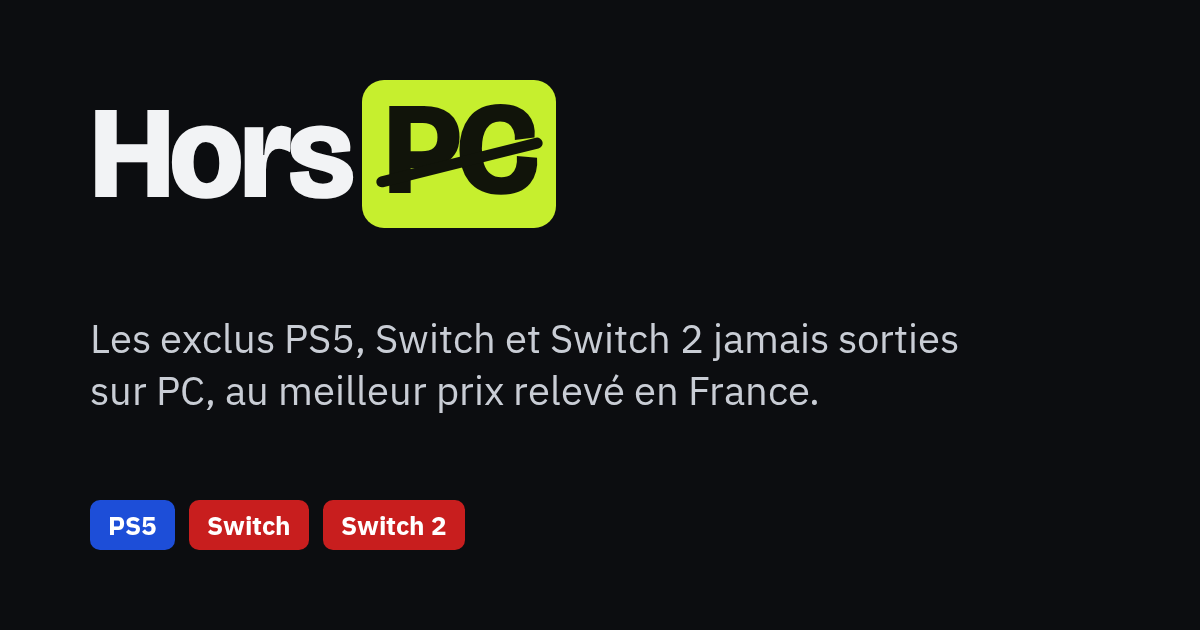
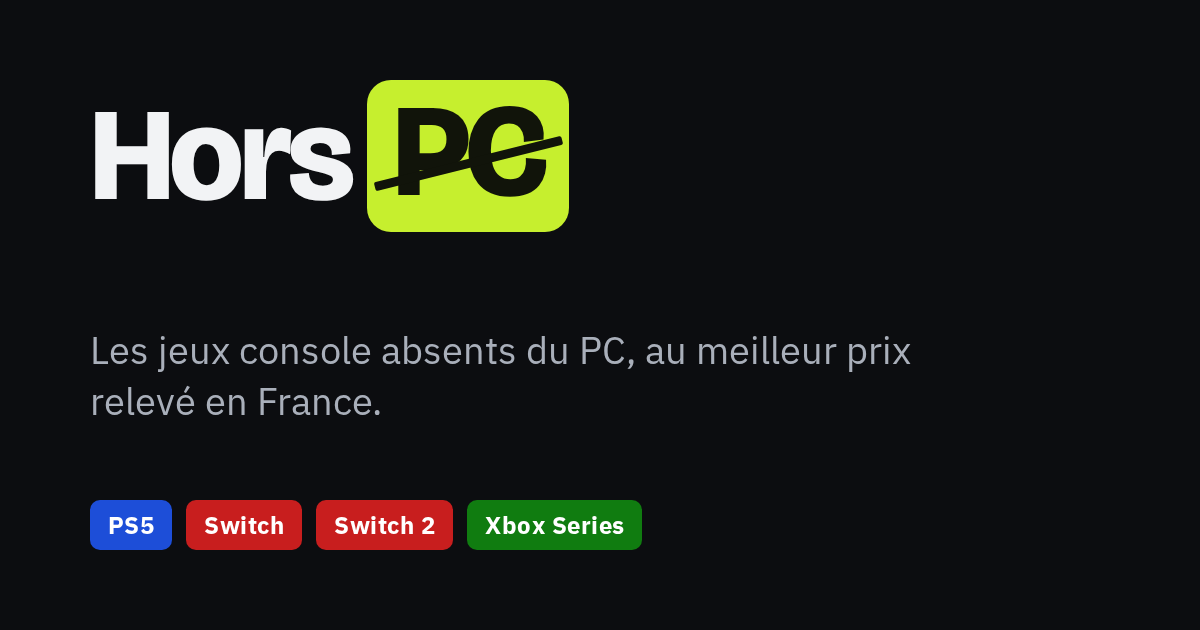
fix(site): og-image à jour et test des fichiers référencés
- og-image.png n'avait pas disparu : suivie depuis 1020a74, jamais
  supprimée (aucune suppression dans l'historique ; covers.py et render.py
  ne touchent que covers/, screens/ et jeux/). Le signalement venait d'un
  `ls site/*.png site/*.jpg` interrompu par zsh faute de .jpg
- l'image était en revanche périmée (« exclus PS5, Switch et Switch 2 ») :
  régénérée en 1200 x 630 avec les polices et tokens du site, accroche
  « jeux console absents du PC » et badge Xbox Series
  (scripts/og_image.py, reproductible)
- test : tout fichier local référencé par une page de site/ (src, href,
  og:image, twitter:image, favicon, scripts, polices de style.css) existe

diff --git a/scripts/og_image.py b/scripts/og_image.py
@@ -1,0 +1,59 @@
+"""Génère site/og-image.png (1200 x 630) avec les polices et les tokens de site/style.css.
+
+Usage : uv run python scripts/og_image.py
+L'image reprend le logo, l'accroche et les badges console du site (thème sombre).
+"""
+
+import sys
+from pathlib import Path
+
+from playwright.sync_api import sync_playwright
+
+SITE = Path(__file__).resolve().parents[1] / "site"
+OUTPUT = SITE / "og-image.png"
+TAGLINE = "Les jeux console absents du PC, au meilleur prix relevé en France."
+CONSOLES = (("PS5", "ps"), ("Switch", "nin"), ("Switch 2", "nin"), ("Xbox Series", "xb"))
+
+PAGE = """<!doctype html>
+<html lang="fr" class="hp dark">
+<head><meta charset="utf-8"><link rel="stylesheet" href="style.css">
+<style>
+  html, body {{ margin: 0; width: 1200px; height: 630px; overflow: hidden; }}
+  .og {{ box-sizing: border-box; width: 1200px; height: 630px; padding: 80px 90px;
+        background: var(--bg); color: var(--ink); display: flex; flex-direction: column; }}
+  .og .logo {{ font-size: 132px; gap: 8px; }}
+  .og .logo-pc {{ padding: 6px 26px 14px; border-radius: 24px; margin-left: 8px; }}
+  .og .logo-pc::after {{ height: 9px; }}
+  .og p {{ margin: 92px 0 0; max-width: 900px; font-size: 38px; line-height: 1.35;
+          color: var(--muted); }}
+  .og .consoles {{ margin-top: auto; display: flex; gap: 14px; }}
+  .og .console {{ height: 50px; padding: 0 18px; border-radius: 10px; font-size: 24px; }}
+</style></head>
+<body class="hp dark"><div class="og">
+  <div class="logo">Hors<span class="logo-pc">PC</span></div>
+  <p>{tagline}</p>
+  <div class="consoles">{consoles}</div>
+</div></body></html>
+"""
+
+
+def main() -> int:
+    consoles = "".join(f'<span class="console {cls}">{name}</span>' for name, cls in CONSOLES)
+    page_path = SITE / "_og-image.html"  # à côté de style.css pour les chemins des polices
+    page_path.write_text(PAGE.format(tagline=TAGLINE, consoles=consoles), encoding="utf-8")
+    try:
+        with sync_playwright() as p:
+            browser = p.chromium.launch()
+            page = browser.new_page(viewport={"width": 1200, "height": 630})
+            page.goto(page_path.as_uri())
+            page.evaluate("document.fonts.ready")
+            page.screenshot(path=str(OUTPUT))
+            browser.close()
+    finally:
+        page_path.unlink(missing_ok=True)
+    print(f"{OUTPUT} écrit")
+    return 0
+
+
+if __name__ == "__main__":
+    sys.exit(main())

diff --git a/tests/test_site.py b/tests/test_site.py
@@ -167,3 +167,49 @@ def test_pages_de_jeux_sans_iframe_ni_ressource_youtube() -> None:
         external = [u for u in parse(page).loaded if is_external(u)]
         assert external == [], page.parent.name
         assert '<script src="../../game.js" defer></script>' in text
+
+
+# --- Fichiers locaux référencés ---------------------------------------------------------------
+
+SITE_URL = "https://mvth1s.github.io/hors-pc/"
+
+
+def local_references(page: Path) -> set[str]:
+    """Cibles locales d'une page : src, href, og:image et twitter:image (URL du site ramenée à
+    un chemin local), sans les liens externes, ancres, mailto ni paramètres."""
+    text = page.read_text(encoding="utf-8")
+    refs = re.findall(r'\b(?:src|href)="([^"]+)"', text)
+    refs += re.findall(r'<meta (?:property|name)="(?:og|twitter):image" content="([^"]+)"', text)
+    found = set()
+    for ref in map(html.unescape, refs):
+        if ref.startswith(SITE_URL):
+            target = SITE / ref.removeprefix(SITE_URL)
+        elif re.match(r"^(?:[a-z]+:|//|#)", ref):
+            continue  # externe, mailto, ancre
+        else:
+            target = page.parent / ref
+        path = target.as_posix().split("#")[0].split("?")[0]
+        if path.endswith("/") or Path(path).is_dir():
+            path = path.rstrip("/") + "/index.html"
+        found.add(path)
+    return found
+
+
+ALL_PAGES = sorted(SITE.glob("*.html")) + sorted(SITE.glob("jeux/*/index.html"))
+
+
+@pytest.mark.parametrize("page", ALL_PAGES, ids=lambda p: str(p.relative_to(SITE)))
+def test_fichiers_references_presents(page: Path) -> None:
+    missing = [ref for ref in sorted(local_references(page)) if not Path(ref).is_file()]
+    assert missing == [], missing
+
+
+def test_og_image_et_polices_presentes() -> None:
+    from horspc.render import OG_IMAGE
+
+    assert (SITE / OG_IMAGE).is_file()
+    index = (SITE / "index.html").read_text(encoding="utf-8")
+    assert f'<meta property="og:image" content="{SITE_URL}{OG_IMAGE}">' in index
+    css = (SITE / "style.css").read_text(encoding="utf-8")
+    fonts = re.findall(r"url\(([^)]+)\)", css)
+    assert fonts and all((SITE / f.strip("'\"")).is_file() for f in fonts)

diff --git a/README.md b/README.md
@@ -349,7 +349,7 @@ Le build (complet ou `--offline`) écrit le catalogue en HTML : le site est **en
 - Une page par jeu : `site/jeux/<slug>/index.html` (titre, plateformes, date, statut PC, offre retenue et date de relevé, jaquette, lien vers le catalogue), construite sur le gabarit des pages légales. Les pages des jeux retirés sont supprimées.
 - Page de jeu enrichie au build complet depuis IGDB : studio(s) et éditeur(s) (`involved_companies`), résumé (`summary`, affiché en anglais avec la mention « Résumé IGDB (en anglais) », ou `description_fr` de `games.yaml` s'il est renseigné), jusqu'à 4 captures officielles (`t_screenshot_big`, WebP dans `site/screens/<slug>/<image_id>.webp`, retéléchargées seulement si l'`image_id` change, réutilisées hors ligne) et la bande-annonce (première vidéo IGDB dont le nom contient « trailer »). La bande-annonce est une façade (image + bouton, `game.js`) : l'iframe `youtube-nocookie.com` n'est créée qu'au clic, aucune requête vers YouTube avant (test Playwright). `data.json` passe en `schema_version` 4 (`developers`, `publishers`, `summary`, `summary_source`, `screenshots`, `trailer_youtube_id`).
 - Cartes du catalogue entièrement cliquables (lien du titre étendu à toute la carte, « Voir l'offre » reste au-dessus), légère élévation au survol et au focus, désactivée avec `prefers-reduced-motion`.
-- Sur chaque page : `<link rel="canonical">` absolu, meta description, Open Graph et Twitter card (jaquette, ou `site/og-image.png` en 1200 × 630), `lang="fr"`, un seul `h1`.
+- Sur chaque page : `<link rel="canonical">` absolu, meta description, Open Graph et Twitter card (jaquette, ou `site/og-image.png` en 1200 × 630, générée par `uv run python scripts/og_image.py` avec les polices et les tokens de `style.css`), `lang="fr"`, un seul `h1`. Un test vérifie que tout fichier local référencé par une page (src, href, `og:image`, `twitter:image`, polices de `style.css`) existe.
 - JSON-LD : `WebSite`, `Person` et `ItemList` sur l'accueil ; `VideoGame` sur chaque page de jeu, avec une `Offer` (prix, EUR, `priceValidUntil` = date du relevé + 30 jours, `InStock`, `NewCondition`) seulement si l'offre n'est pas `stale` : au-delà de 30 jours, le prix n'est plus garanti et n'est plus publié. Le stock n'est pas suivi : `InStock` signifie « offre disponible au moment du relevé ».
 - `site/sitemap.xml` : accueil, pages racine et pages de jeux. `lastmod` réel : date du catalogue pour l'accueil, date « Dernière mise à jour » affichée pour les pages statiques, et pour une page de jeu la date du build où son contenu (`<main>`) a changé pour la dernière fois.
 - Vérification Google Search Console : balise `google-site-verification` dans le `<head>` d'`index.html` uniquement (un test garantit qu'elle ne disparaît pas).
